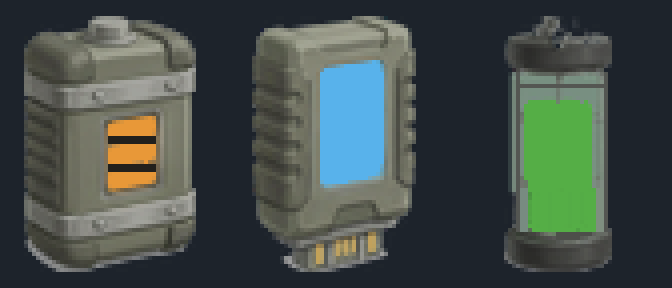
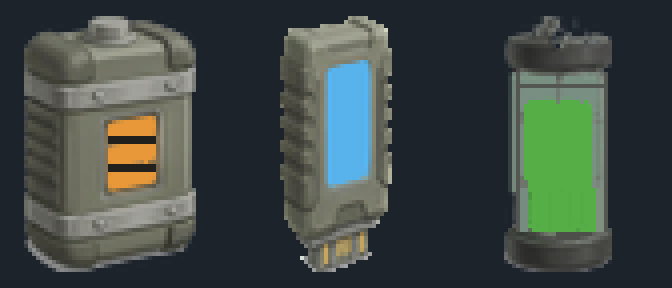
Pods masters: the Data cartridge slimmed, re-signed

Changed region(s): [[0.375, 0.0312, 0.625, 0.9688]]

diff --git a/art/station-masters/pods/tools/status.py b/art/station-masters/pods/tools/status.py
@@ -67,7 +67,7 @@ AD_RECORDS = {
  "crate-closer-sealed-384x256": ('withdrawn', None, 'withdrawn (art director): replaced by crate-{sealed,opening,open}-432x272 in the region UI/UX ruled at 11:12'),
  "crate-closer-opening-384x256": ('withdrawn', None, 'withdrawn (art director): replaced by crate-{sealed,opening,open}-432x272 in the region UI/UX ruled at 11:12'),
  "cargo-energy-48x64": ('signed', "art director, the haul trio (owner's yes)", "signed (art director) at 1x, opaque pixels: L* 46.8, mean R-B 21.2, sat 15.4, 0.0 percent above L* 70, in the crate's band (L* 45-49 +-4, sat <= 35); layer family PAINTED (a painting, cut and graded, hand-touched); the riveted, banded cell, three amber cells in its window"),
- "cargo-data-48x64": ('signed', "art director, the haul trio (owner's yes)", "signed (art director) at 1x, opaque pixels: L* 51.1, mean R-B -21.2, sat 23.5, 0.0 percent above L* 70, in the crate's band (L* 45-49 +-4, sat <= 35); layer family PAINTED (a painting, cut and graded, hand-touched); the ribbed cartridge, upright, sky window, gold contacts"),
+ "cargo-data-48x64": ('signed', "art director, the haul trio (owner's yes)", "signed (art director) at 1x, opaque pixels: L* 51.4, mean R-B -20.3, sat 23.5, 4.1 percent above L* 70, in the crate's band (L* 45-49 +-4, sat <= 35); layer family PAINTED (a painting, cut and graded, hand-touched); the ribbed cartridge, upright, slimmed by hand to 28 px wide (the owner: thinner), sky window, gold contacts"),
  "cargo-essence-48x64": ('signed', "art director, the haul trio (owner's yes)", "signed (art director) at 1x, opaque pixels: L* 49.3, mean R-B 5.9, sat 28.5, 0.0 percent above L* 70, in the crate's band (L* 45-49 +-4, sat <= 35); layer family PAINTED (a painting, cut and graded, hand-touched); the sealed sample tube in a light cage, the green one continuous liquid (one hoop above it)"),
 }
 

diff --git a/art/station-masters/pods/README.md b/art/station-masters/pods/README.md
@@ -34,7 +34,7 @@ Each slice is named by the register id it replaces (`room`, `ring`, `page`, `tra
 | `bud-ready-128x160` | 128×160 |  | signed (art director, verdict (963f4eab)): signed (art director) at 1x, opaque pixels: L* 65.9, key R-B 72, sat 52, 0 percent above L* 70; the bean a clean 112x140 oval, peach lit cream from the top left, a 1 px rust edge, no dot, sprout or waist; late warms toward blush, ready brightest | the bud, ready: by hand, the inner light up full, a soft cream light across the bean's middle where the shape's window sits (pass 111) |
 | `bud-ready-front-128x160` | 128×160 |  | signed (art director, verdict (963f4eab)): signed (art director) at 1x, opaque pixels, 0 percent above L* 70; the bean a clean 112x140 oval, peach lit cream from the top left, a 1 px rust edge, no dot, sprout or waist | the skin over the shape: the bean's silhouette at half opacity, lighter at the middle, drawn over the shape in the ready bud (pass 111) |
 | `bud-small-64x80` | 64×80 |  | signed (art director, verdict (963f4eab)): signed (art director) at 1x, opaque pixels: L* 61.5, key R-B 71, sat 58, 0 percent above L* 70; the bean a clean 112x140 oval, peach lit cream from the top left, a 1 px rust edge, no dot, sprout or waist | the bud for Create's small chamber: the new bud-early reduced by one half (64x80, only ever reduced) (pass 111) |
-| `cargo-data-48x64` | 48×64 |  | signed (art director, the haul trio (owner's yes)): signed (art director) at 1x, opaque pixels: L* 51.1, mean R-B -21.2, sat 23.5, 0.0 percent above L* 70, in the crate's band (L* 45-49 +-4, sat <= 35); layer family PAINTED (a painting, cut and graded, hand-touched); the ribbed cartridge, upright, sky window, gold contacts | the Data haul container: the rugged ribbed cartridge standing upright, its connector at the foot, a flat sky window (#5bb9f3); a Pro edit from the owner's own sketch, keyed from the ground, uniformly scaled to 64 rows with the feet on the bottom row, the body graded to a mean L* of 47, highlights capped under L* 70, the window flat colour capped at L* 69.5 (pass 133) |
+| `cargo-data-48x64` | 48×64 |  | signed (art director, the haul trio (owner's yes)): signed (art director) at 1x, opaque pixels: L* 51.4, mean R-B -20.3, sat 23.5, 4.1 percent above L* 70, in the crate's band (L* 45-49 +-4, sat <= 35); layer family PAINTED (a painting, cut and graded, hand-touched); the ribbed cartridge, upright, slimmed by hand to 28 px wide (the owner: thinner), sky window, gold contacts | the Data haul container: the rugged ribbed cartridge standing upright, its connector at the foot, a flat sky window (#5bb9f3); a Pro edit from the owner's own sketch, keyed from the ground, uniformly scaled to 64 rows with the feet on the bottom row, the body graded to a mean L* of 47, highlights capped under L* 70, the window flat colour capped at L* 69.5 (pass 133) |
 | `cargo-energy-48x64` | 48×64 |  | signed (art director, the haul trio (owner's yes)): signed (art director) at 1x, opaque pixels: L* 46.8, mean R-B 21.2, sat 15.4, 0.0 percent above L* 70, in the crate's band (L* 45-49 +-4, sat <= 35); layer family PAINTED (a painting, cut and graded, hand-touched); the riveted, banded cell, three amber cells in its window | the Energy haul container: the banded steel battery cell with dark rubber corners, a cap terminal and a charge window of three flat amber bars (#ffa83f); a Pro edit from the owner's own sketch, keyed from the ground, uniformly scaled to 64 rows with the feet on the bottom row, the body graded to a mean L* of 47, highlights capped under L* 70, the window flat colour capped at L* 69.5 (pass 133) |
 | `cargo-essence-48x64` | 48×64 |  | signed (art director, the haul trio (owner's yes)): signed (art director) at 1x, opaque pixels: L* 49.3, mean R-B 5.9, sat 28.5, 0.0 percent above L* 70, in the crate's band (L* 45-49 +-4, sat <= 35); layer family PAINTED (a painting, cut and graded, hand-touched); the sealed sample tube in a light cage, the green one continuous liquid (one hoop above it) | the Essence haul container: the caged sealed glass sample tube (the art director's E1 sketch) with flat green essence (#5cbb4c), a light open cage of two bars and two hoops, dark rubber end caps and a steel clip on the top cap; a Pro edit from the owner's own sketch, keyed from the ground, uniformly scaled to 64 rows with the feet on the bottom row, the body graded to a mean L* of 47, highlights capped under L* 70, the window flat colour capped at L* 69.5 (pass 133) |
 | `cell-outline-unread-128x160` | 128×160 |  | signed (pass 61 verdict): the seed values (bone rim, fog rim, frostS body, mist dark half and ghost; the ink ring ruled not needed), and the unread outline typed at its size | the unread picture's dotted outline typed at its size: 1 px `bevel` #5a6672 dots, 1 on 2 off; all four corners lit; from each corner the dots run inward on a 3 px period, each side's remainder one gap at its middle; no two dots touch; the middle fully transparent (pass 60; replaces the withdrawn cell-outline-unread-24x24) |
